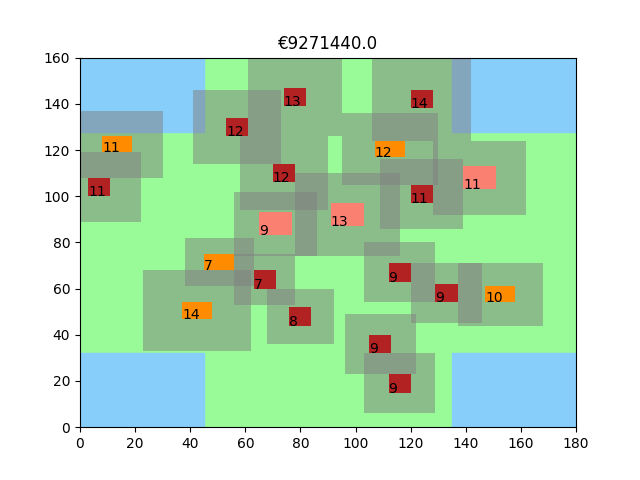
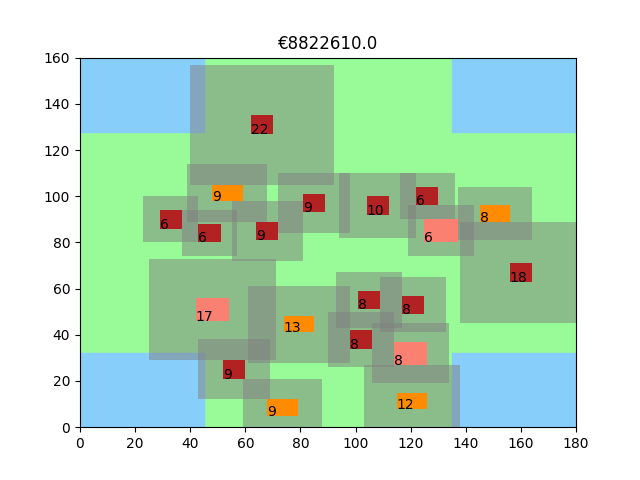
greedy_random update

Changed region(s): [[0.125, 0.0625, 0.9062, 0.9062]]

diff --git a/code/algorithms/random_greedy.py b/code/algorithms/random_greedy.py
@@ -29,6 +29,7 @@ class Random_greedy():
         number_bungalow = self.amstelhaege.fraction_house_2 * total
         number_maison = ((self.amstelhaege.fraction_house_3 * total) - 1)
 
+        # TODO deze moet ook gecheckt worden
         # randomly places first house, which is maison
         x = randrange(self.amstelhaege.width)
         y = randrange(self.amstelhaege.length)
@@ -53,10 +54,12 @@ class Random_greedy():
             elif number_eengezinswoning > 0:
                 house_type = 1
                 number_eengezinswoning -= 1
+        
             
             # creates house object
             house = House(x, y, house_type)
-            self.amstelhaege.houses.append(house)
+            highest_house = House(x, y, house_type)
+            # self.amstelhaege.houses.append(house)
 
             tries = 0
             while tries < 3:
@@ -71,7 +74,6 @@ class Random_greedy():
                     # check if the random coordinates are available
                     if self.amstelhaege.check_location(x, y, house.width, house.length, house.free_area):
                         house.move(x, y)
-                        print(f"goed {house.x_left}")
                         placed = True
                     
                 # calculates new worth        
@@ -81,11 +83,17 @@ class Random_greedy():
                 
                 # if score is higher than the currrent, save the position
                 if self.score > self.highest_score:
+                    highest_house = house
                     print(f"hoogste: {house.x_left}")
                     self.highest_score = self.score
                     self.amstelhaege.price = self.highest_score
-
+                    print(highest_house)
+                    
                 tries += 1
+            
+            self.amstelhaege.houses.append(highest_house)
+            self.amstelhaege.get_free_space()
+
         return self.amstelhaege
 
     
